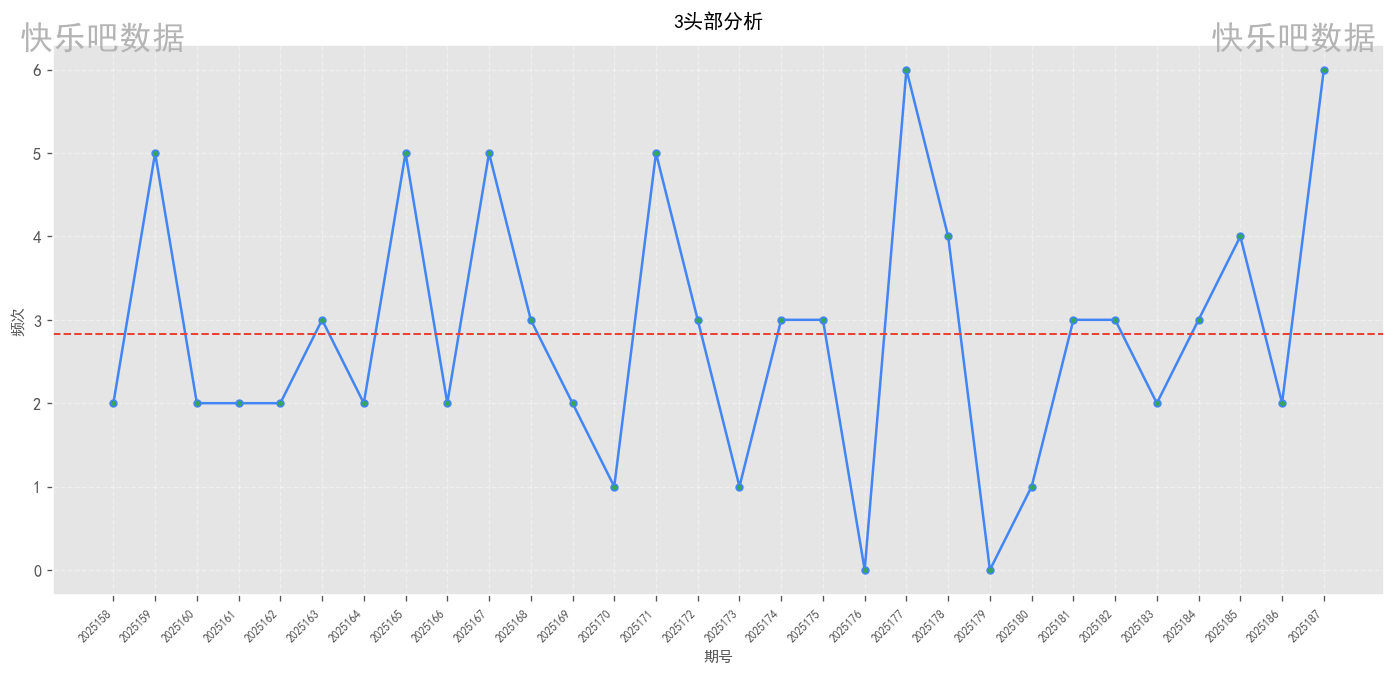
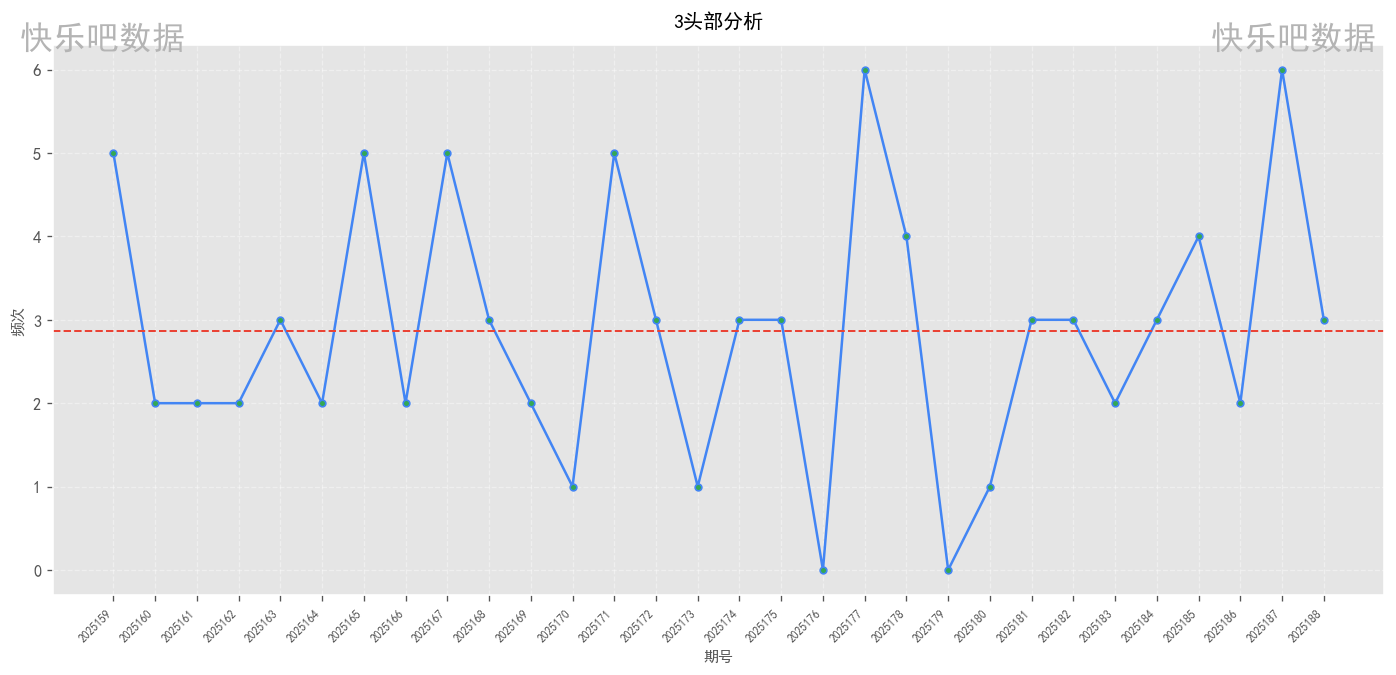
自动提交报告 20250717_2256

diff --git a/快乐8头号分析项目/数据报告/20250717/report.html b/快乐8头号分析项目/数据报告/20250717/report.html
@@ -440,7 +440,7 @@
                     <div class="label">头部区间</div>
                 </div>
                 <div class="overview-card">
-                    <div class="value">2025187</div>
+                    <div class="value">2025188</div>
                     <div class="label">最新期号</div>
                 </div>
                 <div class="overview-card">
@@ -464,7 +464,7 @@
             <div class="stats-summary">
                 <div class="stat-item">
                     <span class="stat-label">历史平均</span>
-                    <span class="stat-value">2.13</span>
+                    <span class="stat-value">2.23</span>
                 </div>
                 <div class="stat-item">
                     <span class="stat-label">近期平均</span>
@@ -490,7 +490,7 @@
                 </div>
                 <div class="stat-item">
                     <span class="stat-label">近期平均</span>
-                    <span class="stat-value">2.40</span>
+                    <span class="stat-value">2.20</span>
                 </div>
                 <div class="stat-item">
                     <span class="stat-label">最高频次</span>
@@ -512,7 +512,7 @@
                 </div>
                 <div class="stat-item">
                     <span class="stat-label">近期平均</span>
-                    <span class="stat-value">2.40</span>
+                    <span class="stat-value">2.80</span>
                 </div>
                 <div class="stat-item">
                     <span class="stat-label">最高频次</span>
@@ -530,11 +530,11 @@
             <div class="stats-summary">
                 <div class="stat-item">
                     <span class="stat-label">历史平均</span>
-                    <span class="stat-value">2.83</span>
+                    <span class="stat-value">2.87</span>
                 </div>
                 <div class="stat-item">
                     <span class="stat-label">近期平均</span>
-                    <span class="stat-value">3.40</span>
+                    <span class="stat-value">3.60</span>
                 </div>
                 <div class="stat-item">
                     <span class="stat-label">最高频次</span>
@@ -574,11 +574,11 @@
             <div class="stats-summary">
                 <div class="stat-item">
                     <span class="stat-label">历史平均</span>
-                    <span class="stat-value">2.57</span>
+                    <span class="stat-value">2.50</span>
                 </div>
                 <div class="stat-item">
                     <span class="stat-label">近期平均</span>
-                    <span class="stat-value">3.20</span>
+                    <span class="stat-value">2.40</span>
                 </div>
                 <div class="stat-item">
                     <span class="stat-label">最高频次</span>
@@ -596,11 +596,11 @@
             <div class="stats-summary">
                 <div class="stat-item">
                     <span class="stat-label">历史平均</span>
-                    <span class="stat-value">2.33</span>
+                    <span class="stat-value">2.30</span>
                 </div>
                 <div class="stat-item">
                     <span class="stat-label">近期平均</span>
-                    <span class="stat-value">2.20</span>
+                    <span class="stat-value">2.00</span>
                 </div>
                 <div class="stat-item">
                     <span class="stat-label">最高频次</span>
@@ -622,7 +622,7 @@
                 </div>
                 <div class="stat-item">
                     <span class="stat-label">近期平均</span>
-                    <span class="stat-value">2.20</span>
+                    <span class="stat-value">2.80</span>
                 </div>
                 <div class="stat-item">
                     <span class="stat-label">最高频次</span>
@@ -640,7 +640,7 @@
             <div class="stats-summary">
                 <div class="stat-item">
                     <span class="stat-label">历史平均</span>
-                    <span class="stat-value">0.40</span>
+                    <span class="stat-value">0.37</span>
                 </div>
                 <div class="stat-item">
                     <span class="stat-label">近期平均</span>
@@ -668,7 +668,7 @@
         <div class="disclaimer">
             <div class="disclaimer-title"><i class="fas fa-exclamation-circle"></i> 法律声明</div>
             <p>本分析报告基于中国福利彩票官网公开数据制作，仅供历史数据分析与参考，严禁用于赌博或任何违法违规用途。</p>
-            <p>根据中国法律，禁止向未成年人传播彩票相关信息。数据统计周期: 2025158期-2025187期 | 生成时间: 2025-07-17 09:35</p>
+            <p>根据中国法律，禁止向未成年人传播彩票相关信息。数据统计周期: 2025159期-2025188期 | 生成时间: 2025-07-17 22:56</p>
         </div>
 
         <!-- 操作按钮 -->

diff --git a/index.html b/index.html
@@ -51,7 +51,7 @@
                 立即查看今日报告
             </a>
         </p>
-        <p>生成时间: 2025-07-17 09:35</p>
+        <p>生成时间: 2025-07-17 22:56</p>
     </div>
 
     <script>
